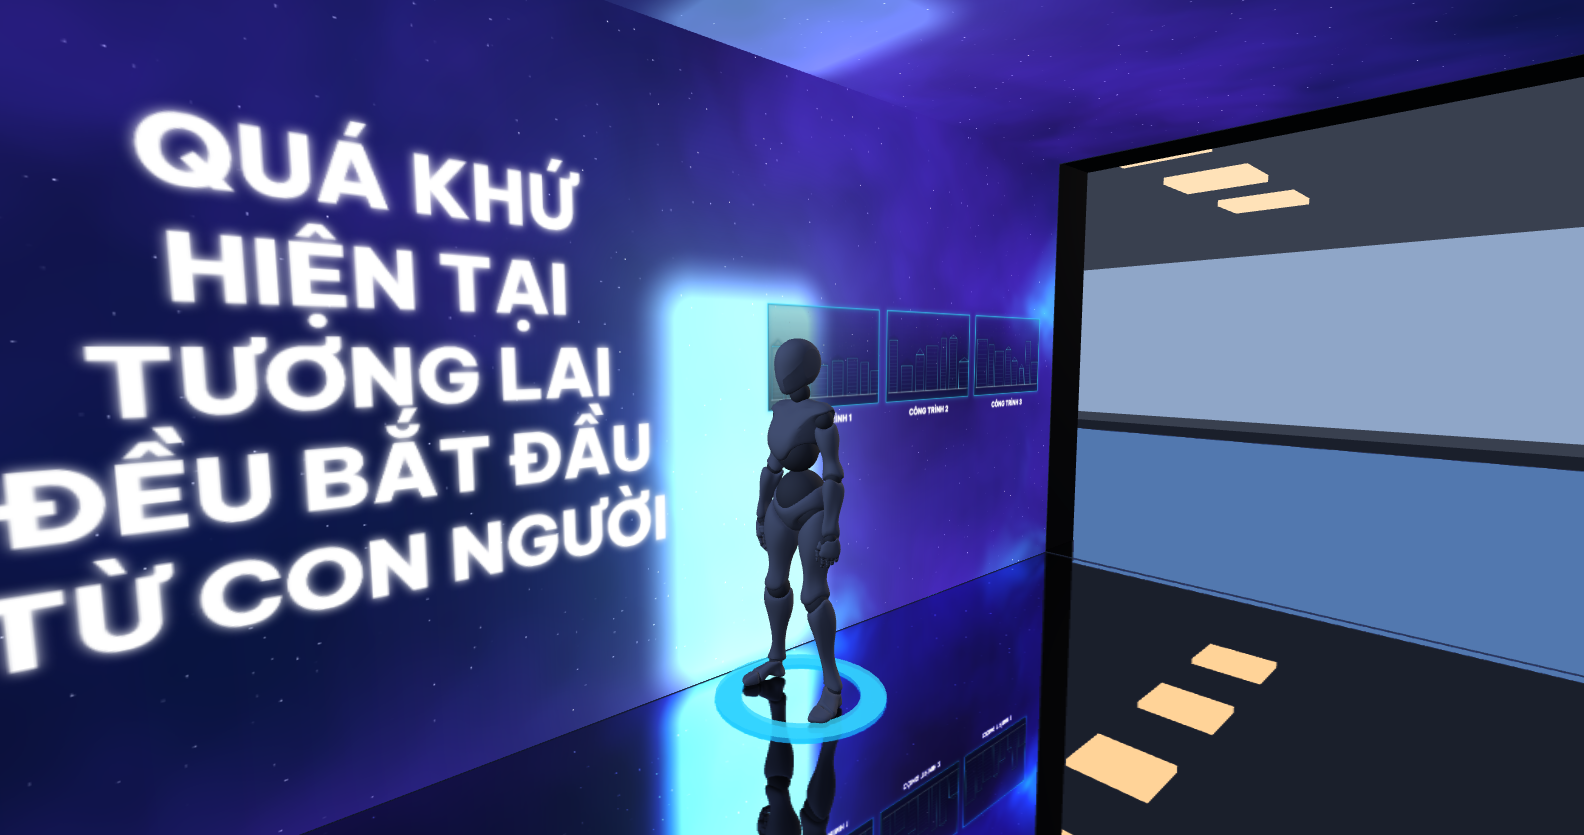
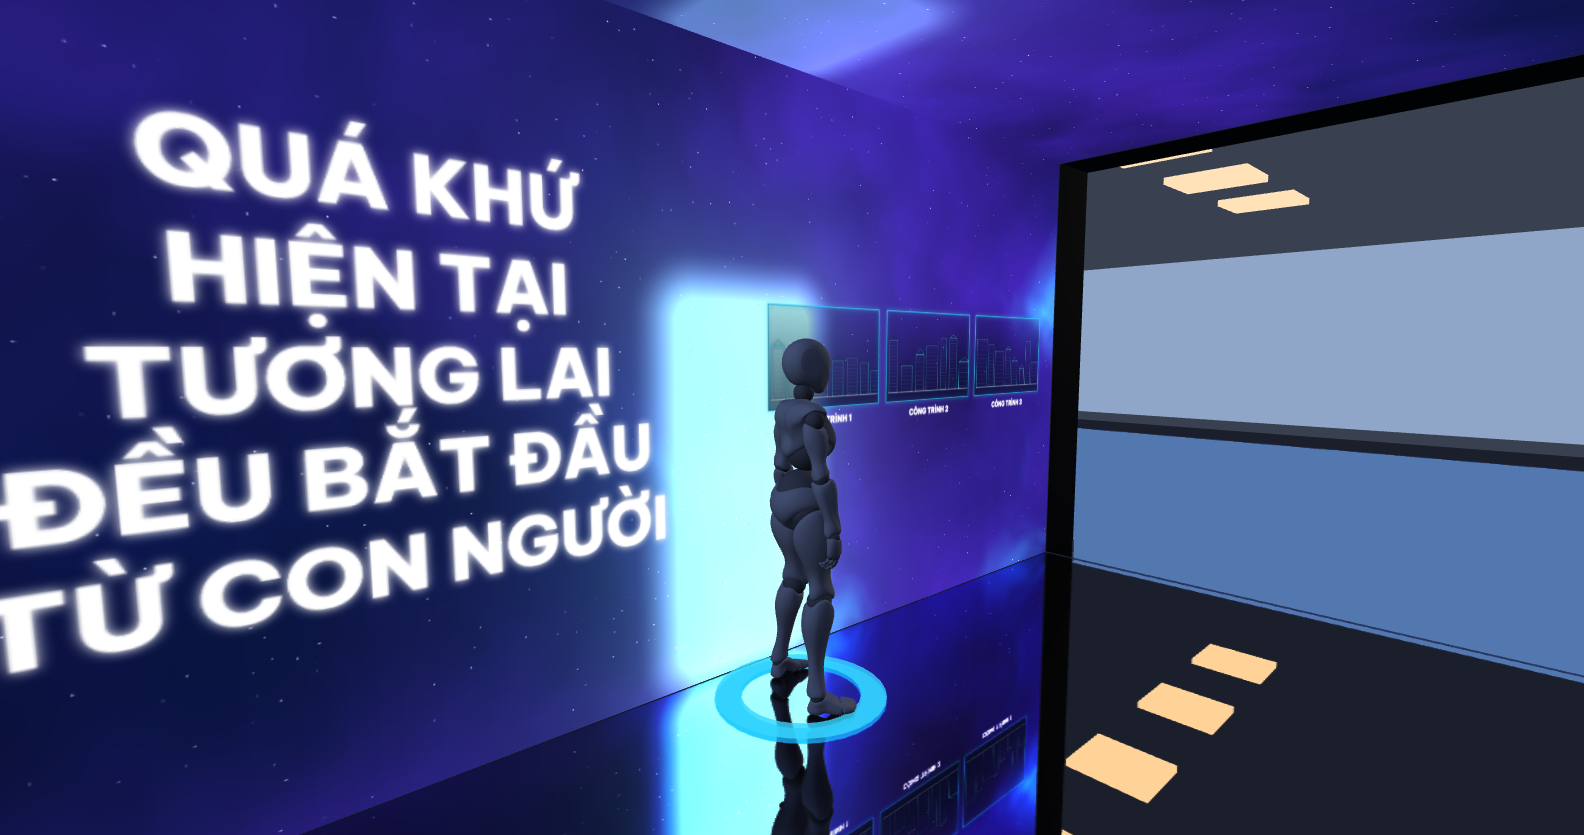
Camera "đi xuyên tự động" quanh quẩn trong cổng và luôn hướng vào nội dung
- Đường đi mới: từ ngay trước mặt dựng tới mép cuối cổng rồi lùi ra, chu kỳ 22 s, êm ở hai đầu
- Luôn nhìn về phía trong cổng, có ngoái đầu chậm sang hai bên và hơi ngước lên để thấy tường và trần
- Camera này cũng được tính là một người khách, nên hiệu ứng theo người bám theo nó

Changed region(s): [[0.464, 0.4048, 0.5568, 1.0]]

diff --git a/src/render/preview.ts b/src/render/preview.ts
@@ -19,7 +19,7 @@ export const CAMERA_LABEL: Record<CameraPreset, string> = {
 };
 
 const EYE = 1.6;
-const WALK_PERIOD = 18;
+const WALK_PERIOD = 22;
 
 type RobotRole = 'greeter' | 'patrol' | 'aisle';
 interface RobotActor { group: THREE.Group; ch: Character | null; role: RobotRole; phase: number }
@@ -156,7 +156,10 @@ export class Preview {
 
   /** Vị trí sàn của NGƯỜI ĐANG ĐI (chế độ tự đi) — để màn LED phản ứng theo chính người xem. */
   viewerPerson(): { x: number; d: number } | null {
-    return this.preset === 'fpv' ? { x: this.fpv.x, d: this.fpv.d } : null;
+    if (this.preset === 'fpv') return { x: this.fpv.x, d: this.fpv.d };
+    // camera "đi xuyên tự động" cũng là một người khách: hiệu ứng theo người bám theo nó
+    if (this.preset === 'walk') return { x: this.camera.position.x, d: -this.camera.position.z };
+    return null;
   }
 
   setOutput(texture: THREE.Texture): void {
@@ -485,11 +488,24 @@ export class Preview {
       const L = this.project.portal.length;
       this.walkT = (this.walkT + dt) % WALK_PERIOD;
       const k = this.walkT / WALK_PERIOD;
-      const ease = k < 0.5 ? 2 * k * k : 1 - Math.pow(-2 * k + 2, 2) / 2;
-      const z = 9 - ease * (9 + L + 3);
+      // đi vào rồi quay ra: quanh quẩn giữa sân trước và mép cuối cổng, không lọt sâu vào sảnh
+      const smooth = (x: number): number => x * x * (3 - 2 * x);
+      // đi vào rồi lùi ra, quanh quẩn từ ngay trước mặt dựng tới mép cuối cổng; LUÔN hướng mặt vào
+      // trong cổng để khung hình lúc nào cũng có nội dung LED, không quay ra sân tối
+      const tri = k < 0.5 ? k * 2 : 2 - k * 2;      // 0 → 1 → 0
+      const z = 2.5 - smooth(tri) * (2.5 + L + 0.4);
       const sway = Math.sin(this.walkT * 2.1) * 0.03;
-      this.camera.position.set(sway * 3, EYE + Math.abs(sway), z);
-      this.camera.lookAt(sway * 3, EYE - 0.1, z - 6);
+      const px = sway * 3;
+      this.camera.position.set(px, EYE + Math.abs(sway), z);
+      // ngoái đầu chậm sang hai bên và hơi ngước lên: đi tới đâu ngắm tường và trần tới đó
+      const yaw = Math.sin(this.walkT * 0.55) * 0.5;
+      const pitch = Math.sin(this.walkT * 0.31) * 0.16;
+      const reach = 2.6;
+      this.camera.lookAt(
+        px - Math.sin(yaw) * reach,
+        EYE - 0.05 + Math.sin(pitch) * reach,
+        z - Math.cos(yaw) * reach,
+      );
     } else {
       this.controls.update();
     }
